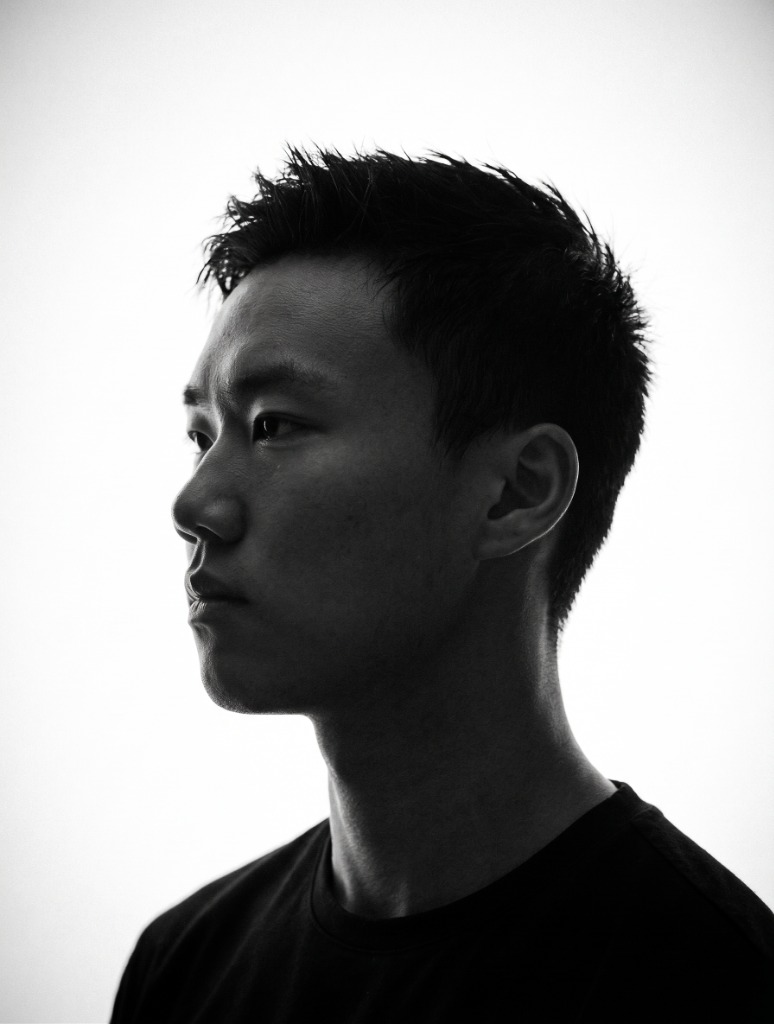
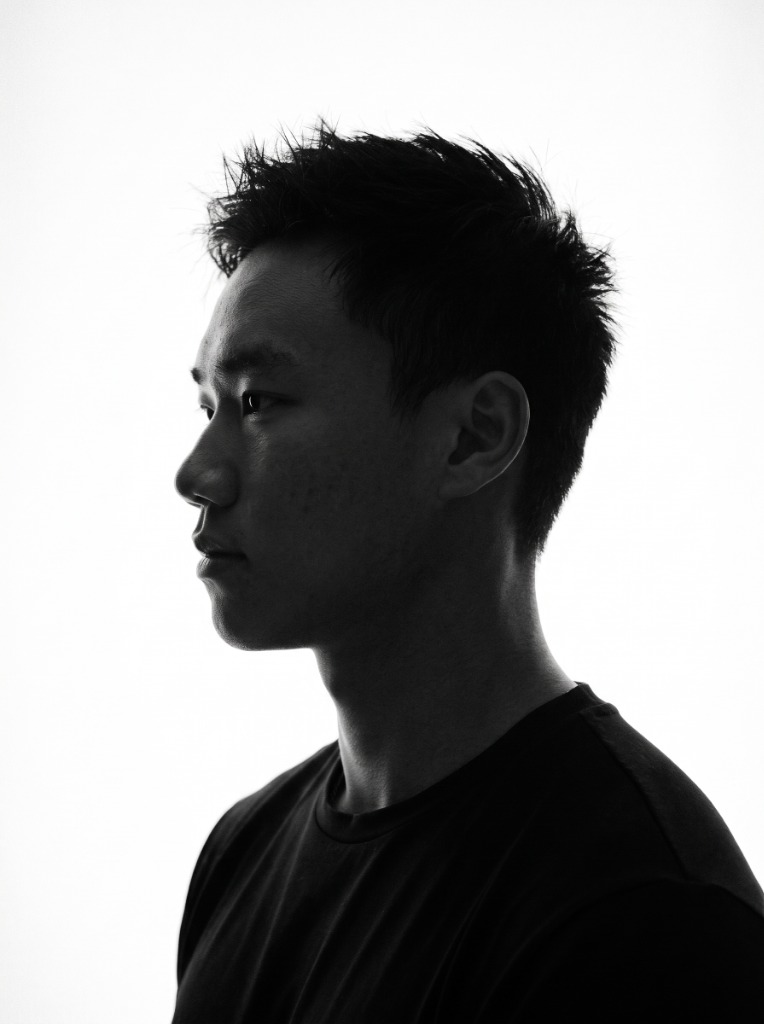
Swap hero and OG preview to updated backlit side-profile portrait

diff --git a/index.html b/index.html
@@ -30,7 +30,7 @@
   <link href="https://fonts.googleapis.com/css2?family=Big+Shoulders+Display:wght@600;700;800;900&family=Caveat:wght@500;600;700&family=Fraunces:ital,opsz,wght@0,9..144,100..900;1,9..144,100..900&family=Geist+Mono:wght@400;500;600&family=Geist:wght@300;400;500;600;700&family=Inter:wght@300;400;500;600&family=Sofia+Sans+Extra+Condensed:wght@800;900&display=swap" rel="stylesheet">
   <link rel="preload" as="font" type="font/ttf" href="assets/fonts/GoogleSansFlex-Variable.ttf" crossorigin>
   <link rel="preload" as="font" type="font/ttf" href="assets/fonts/GoogleSansMono-Variable.ttf" crossorigin>
-  <link rel="preload" as="image" href="assets/ian_profile_bw.jpg?v=240" fetchpriority="high">
+  <link rel="preload" as="image" href="assets/ian_profile_bw.jpg?v=242" fetchpriority="high">
   <link rel="preload" as="image" href="assets/memoji_about_bust.gif?v=202" fetchpriority="high">
   <link rel="preload" as="image" href="assets/avatar_real_photo.jpg?v=153" fetchpriority="high">
   <link rel="stylesheet" href="style.css?v=234">
@@ -199,7 +199,7 @@
                 <div class="fold-bezel">
                   <div class="fold-screen">
                     <div class="fold-lock-screen">
-                      <img src="assets/ian_profile_bw.jpg?v=240" alt="Ian Yen editorial side-profile portrait" class="fold-lock-portrait-full" decoding="sync">
+                      <img src="assets/ian_profile_bw.jpg?v=242" alt="Ian Yen editorial side-profile portrait" class="fold-lock-portrait-full" decoding="sync">
                       <div class="fold-lock-portrait-fade" aria-hidden="true"></div>
 
                       <div class="fold-lock-top">
@@ -254,7 +254,7 @@
                       </span>
                     </div>
                     <div class="fold-inside-right-panel is-full-portrait">
-                      <img src="assets/ian_profile_bw.jpg?v=240" alt="Ian Yen" class="fold-inside-portrait-img" decoding="sync">
+                      <img src="assets/ian_profile_bw.jpg?v=242" alt="Ian Yen" class="fold-inside-portrait-img" decoding="sync">
                     </div>
                   </div>
                 </div>
